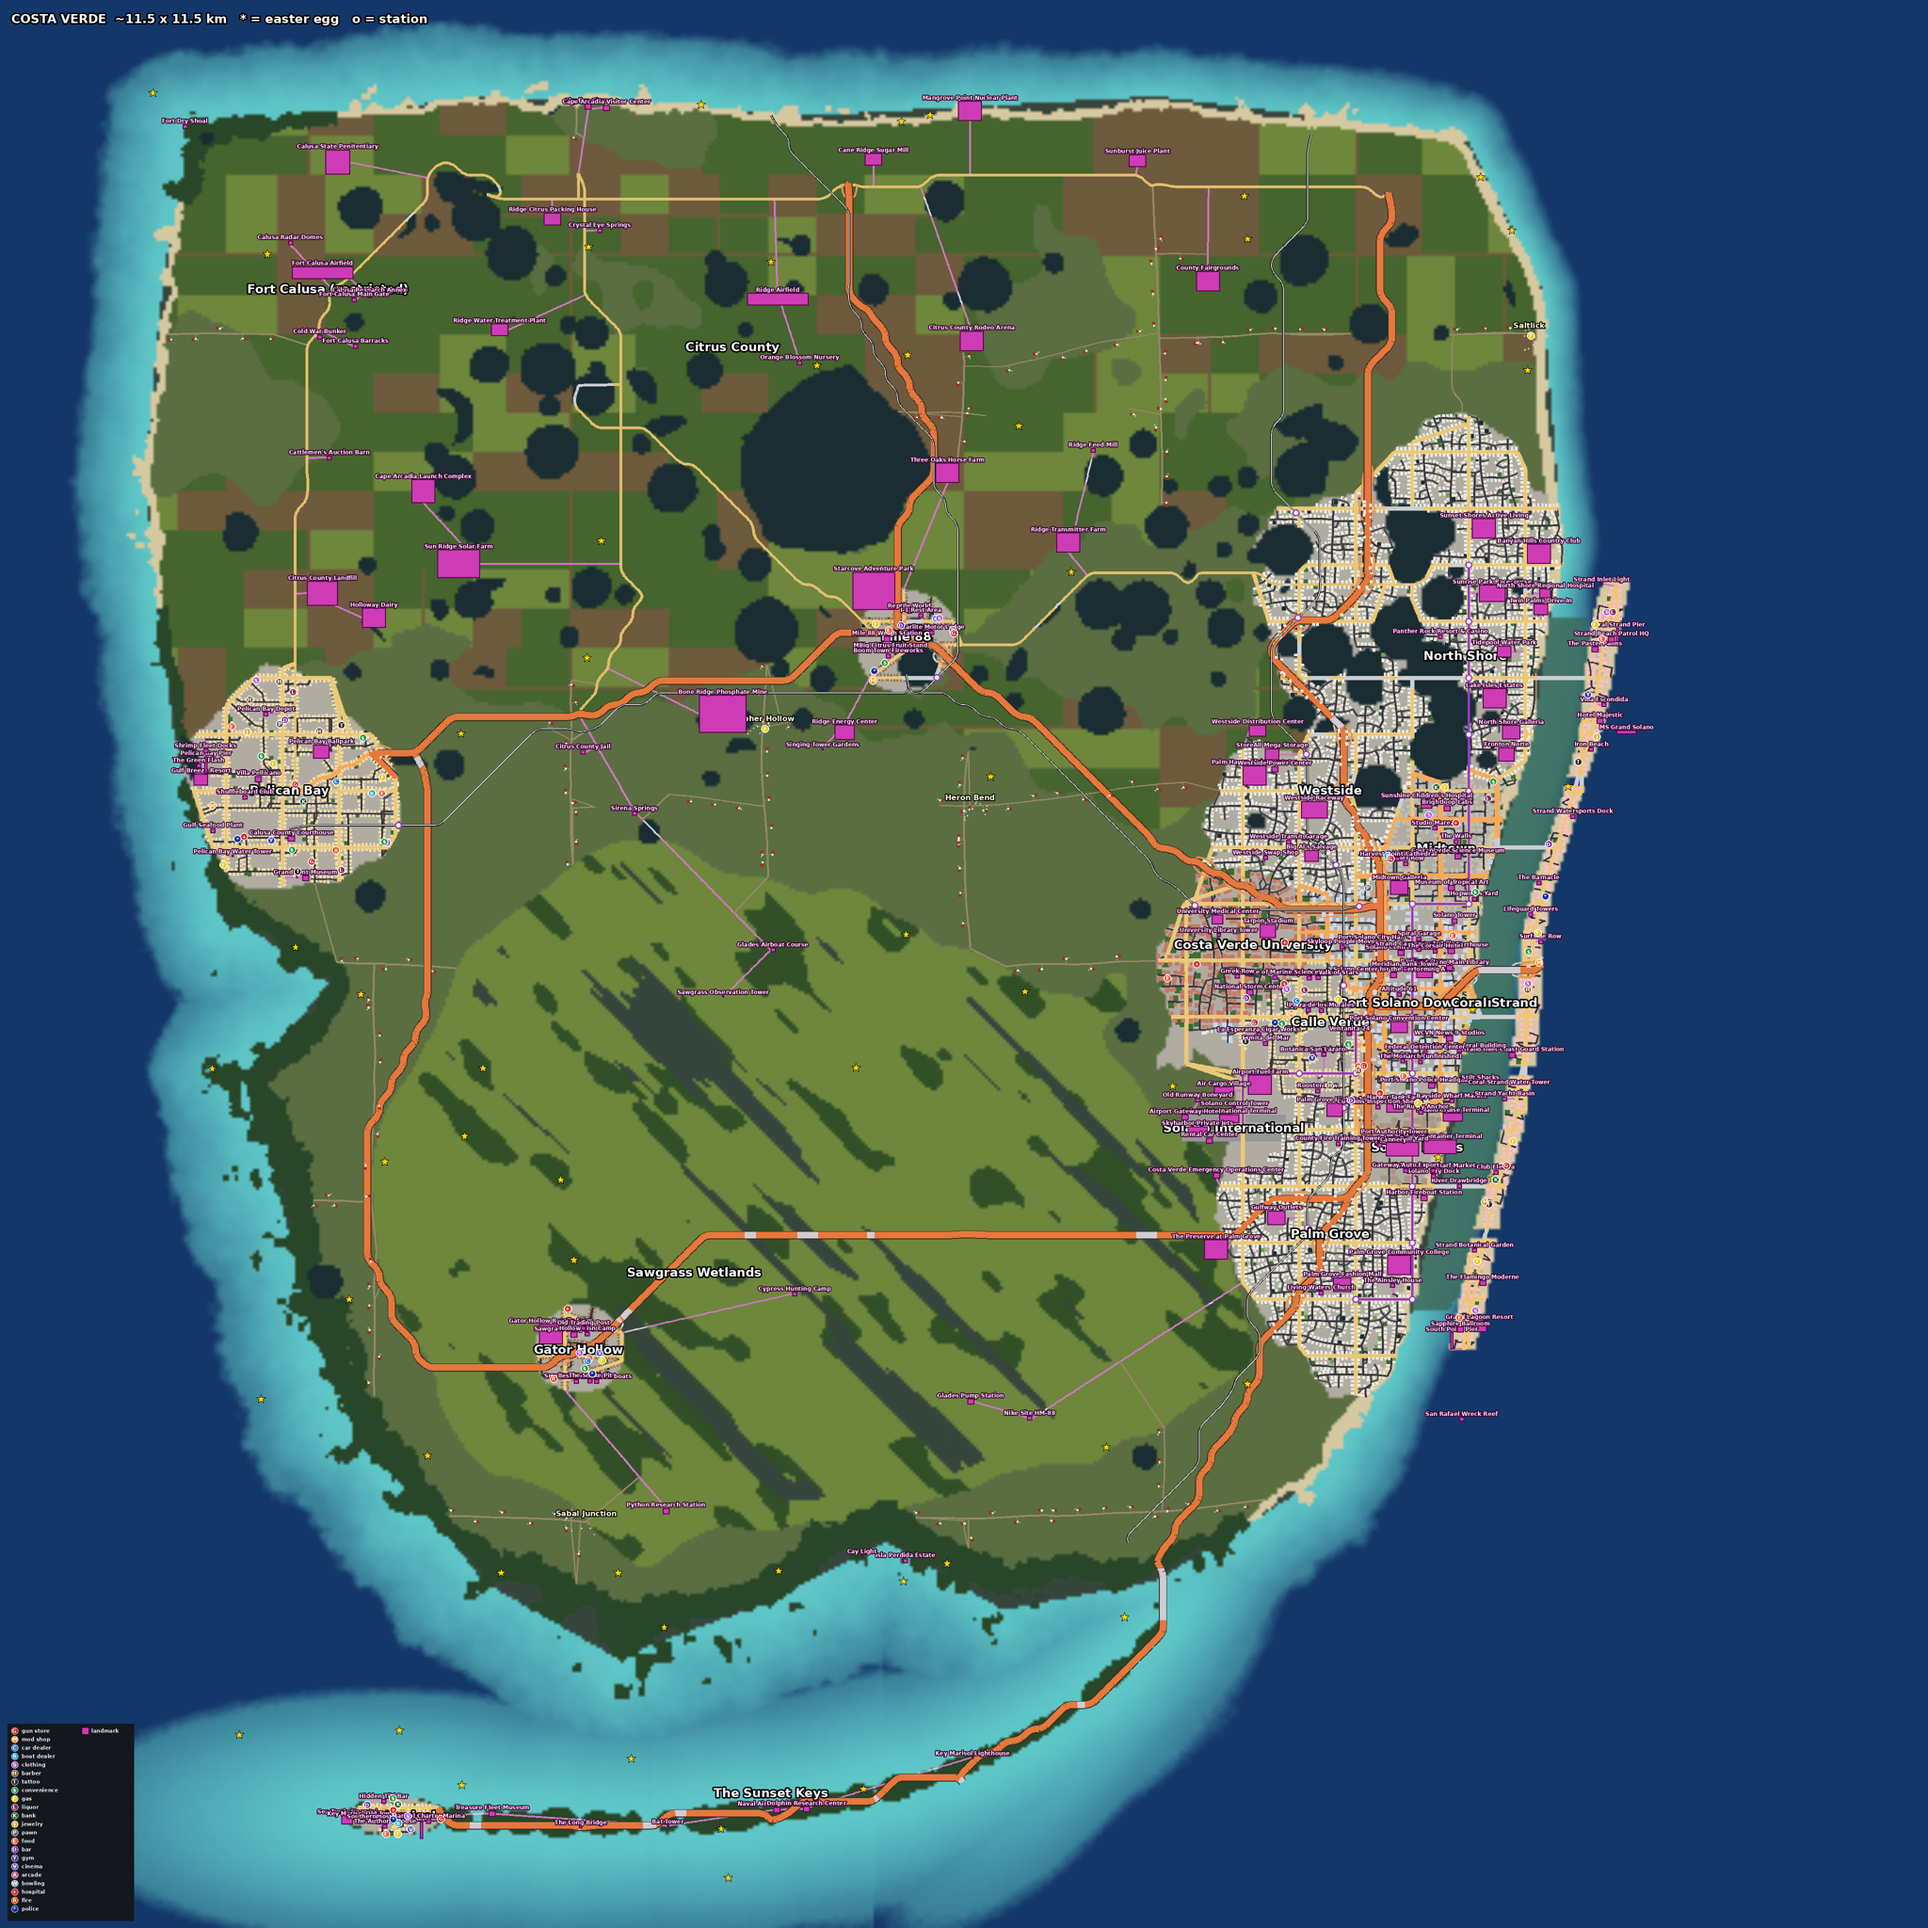
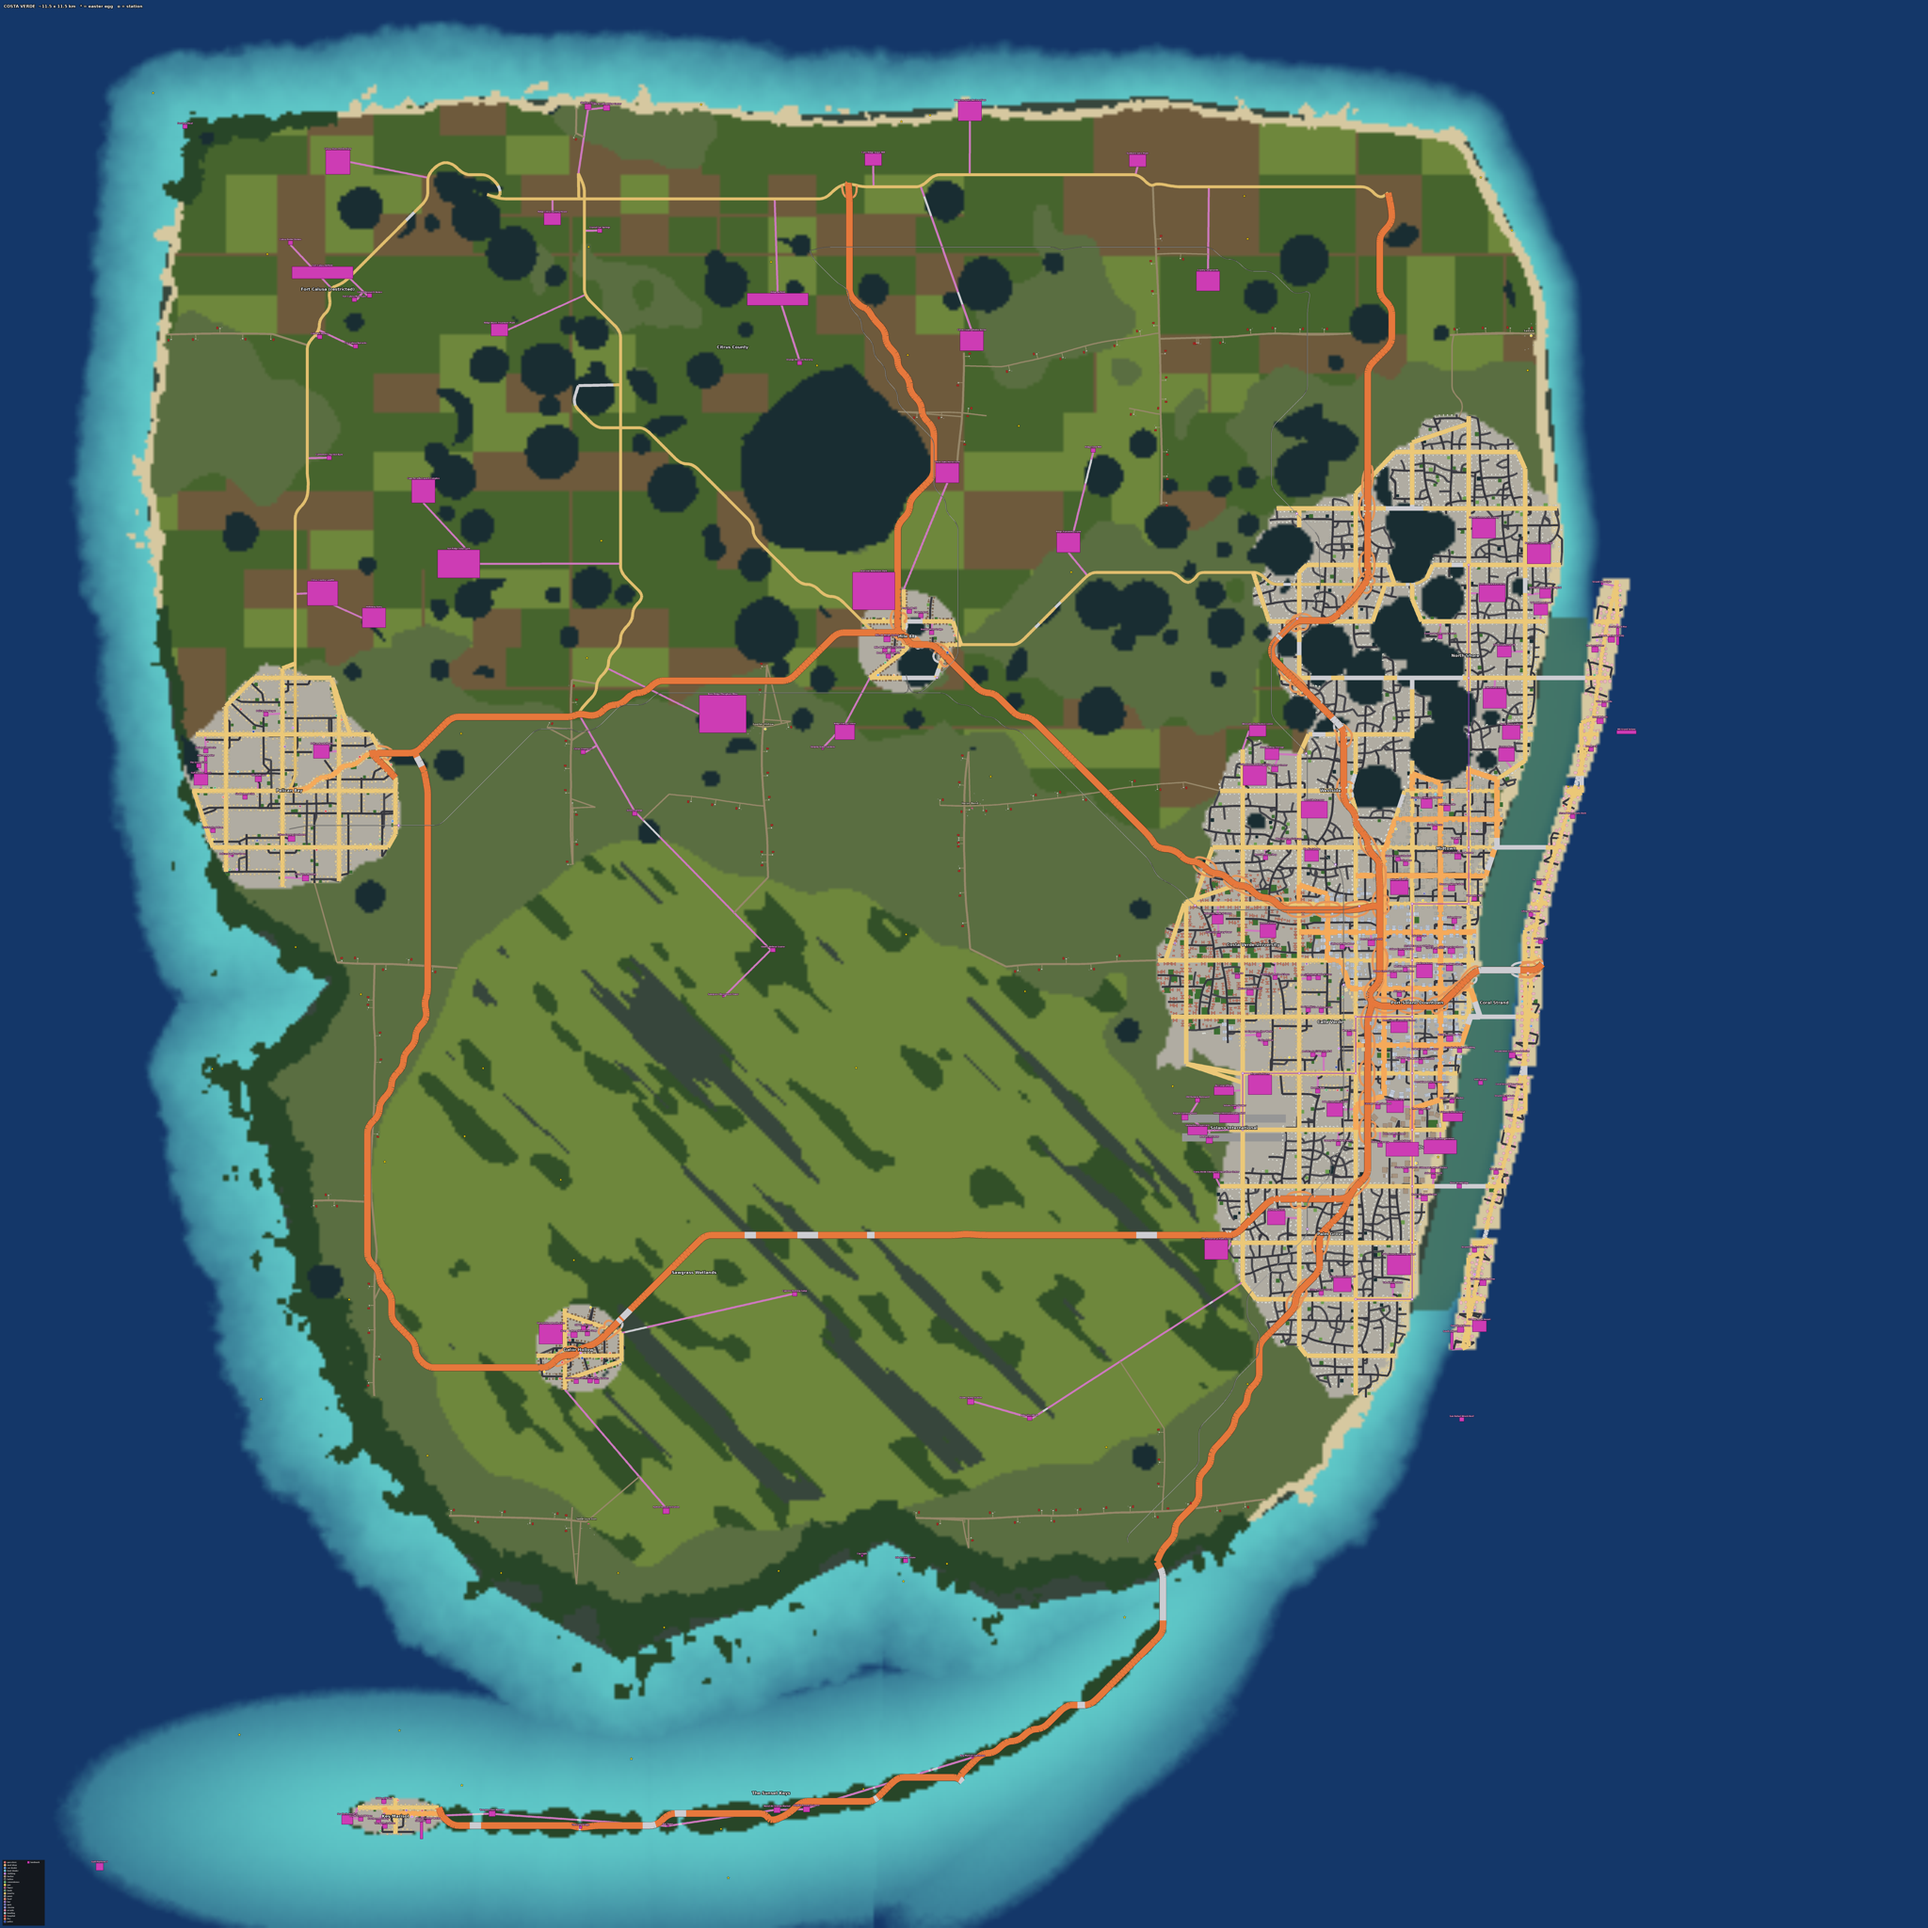
Costa Verde: real building shapes for every building; rail network joined
- Shapes.luau: multi-part footprints (polygon, height, roof) per building type; homes from a
  per-neighbourhood palette of 9 Florida house types with per-house variation; tower, midrise,
  Art Deco, shopfront, warehouse, campus and use-specific forms; facing the street, inside the lot
- SegIndex.luau shared; city lots and farm buildings checked corner by corner against every road
- coastline railway joins the Citrus freight line in the north
- audit: every building has a shape inside its lot; part corners clear of roads (0.03% touching)

Claude-Session: https://claude.ai/code/session_01PWmpu53kThn7KFGp88wUgC

diff --git a/costa-verde/tools/audit_world.py b/costa-verde/tools/audit_world.py
@@ -154,6 +154,34 @@ B = W["buildings"]
 bad = sum(on_road(b) for b in B)
 say("\n## Buildings")
 check("buildings not on roads", bad / len(B) < 0.01, f"{bad} of {len(B)} buildings ({100 * bad / len(B):.2f}%) overlap a road")
+# every corner of every building part (world space) clear of every road
+def part_corners(b):
+    c, sn = math.cos(math.radians(b["rot"])), math.sin(math.radians(b["rot"]))
+    for p in b.get("parts", []):
+        pts = p["pts"]
+        for i in range(0, len(pts), 2):
+            yield b["x"] + c * pts[i] - sn * pts[i + 1], b["z"] + sn * pts[i] + c * pts[i + 1], abs(pts[i]) <= b["w"] / 2 + 0.01 and abs(pts[i + 1]) <= b["d"] / 2 + 0.01
+
+
+no_parts = sum(1 for b in B if not b.get("parts"))
+outside_lot = 0
+on_road_parts = 0
+for b in B:
+    hit = False
+    for x, z, inside_lot in part_corners(b):
+        outside_lot += not inside_lot
+        if not hit:
+            for r in seg_grid[(int(x // 128), int(z // 128))]:
+                dx, dz = r["bx"] - r["ax"], r["bz"] - r["az"]
+                L2 = dx * dx + dz * dz or 1e-9
+                t = max(0, min(1, ((x - r["ax"]) * dx + (z - r["az"]) * dz) / L2))
+                if math.dist((x, z), (r["ax"] + dx * t, r["az"] + dz * t)) < r["width"] / 2 - 1:
+                    hit = True
+                    break
+    on_road_parts += hit
+check("every building has a real shape", no_parts == 0 and outside_lot == 0, f"{no_parts} without parts, {outside_lot} part corners outside their lot")
+check("building shapes clear of roads", on_road_parts / len(B) < 0.01, f"{on_road_parts} buildings ({100 * on_road_parts / len(B):.2f}%) with a part corner on a road")
+say(f"building types: {len(Counter(b.get('type') for b in B))} kinds; top: {dict(Counter(b.get('type') for b in B).most_common(12))}")
 bg = defaultdict(list)
 for b in B:
     bg[(int(b["x"] // 128), int(b["z"] // 128))].append(b)

diff --git a/costa-verde/tools/render_map.py b/costa-verde/tools/render_map.py
@@ -59,10 +59,15 @@ STYLE = {"tower": (205, 215, 230), "midrise": (190, 190, 180), "deco": (250, 190
          "barn": (170, 40, 35), "silo": (200, 200, 205), "store": (90, 140, 200), "gas": (230, 200, 40), "church": (255, 255, 255),
          "diner": (230, 90, 140), "trailer": (200, 200, 190)}
 for b in world["buildings"]:
-    x, z, w, dd = b["x"] * k, b["z"] * k, b["w"] * k / 2, b["d"] * k / 2
+    x, z = b["x"], b["z"]
     c, sn = math.cos(math.radians(b["rot"])), math.sin(math.radians(b["rot"]))
-    corners = [(x + c * px - sn * pz, z + sn * px + c * pz) for px, pz in ((-w, -dd), (w, -dd), (w, dd), (-w, dd))]
-    d.polygon(corners, fill=STYLE.get(b["style"], (200, 200, 200)))
+    base = STYLE.get(b["style"], (200, 200, 200))
+    for p in sorted(b.get("parts", []), key=lambda p: p["base"] + p["h"]):  # taller parts drawn on top, darker
+        pts = p["pts"]
+        poly = [((x + c * pts[i] - sn * pts[i + 1]) * k, (z + sn * pts[i] + c * pts[i + 1]) * k) for i in range(0, len(pts), 2)]
+        shade = 1 - min(0.35, (p["base"] + p["h"]) / 1500)
+        fill = tuple(int(v * shade) for v in base) if p["roof"] not in ("canopy",) else (210, 210, 215)
+        d.polygon(poly, fill=fill, outline=tuple(int(v * 0.6) for v in base))
 
 for t in world["tracks"]:
     pts = [t["ax"] * k, t["az"] * k, t["bx"] * k, t["bz"] * k]

diff --git a/costa-verde/tools/data/audit.md b/costa-verde/tools/data/audit.md
@@ -13,15 +13,18 @@ interchange ramps: 2208 segments
 
 ## Land use
 - [PASS] built-up land reached by roads: 98.1% of built-up land is within 150 studs of a road
-- [PASS] built-up land has buildings: 96.5% of built-up land has a building within 130 studs
+- [PASS] built-up land has buildings: 96.3% of built-up land has a building within 130 studs
 
 ## Water
 - [PASS] no roads driving through water: 0.00 km of road over water without a bridge (exact terrain); by kind (studs) {}
 
 ## Buildings
-- [PASS] buildings not on roads: 47 of 7383 buildings (0.64%) overlap a road
-- [PASS] buildings not overlapping: 2 overlapping pairs
-buildings by district: {'northshore': 1708, 'palmgrove': 1310, 'gulftown': 1160, 'westside': 750, 'calle': 409, 'rural': 376, 'beach': 337, 'university': 316, 'downtown': 295, 'midtown': 251, 'swamptown': 181, 'truckstop': 150, 'keytown': 68, 'docks': 38, 'hamlet': 34}
+- [PASS] buildings not on roads: 2 of 7054 buildings (0.03%) overlap a road
+- [PASS] every building has a real shape: 0 without parts, 0 part corners outside their lot
+- [PASS] building shapes clear of roads: 2 buildings (0.03%) with a part corner on a road
+building types: 26 kinds; top: {'shopfronts': 1581, 'ranch': 806, 'l_ranch': 673, 'colonial': 615, 'courtyard': 586, 'duplex': 409, 'townhouses': 309, 'art deco': 264, 'Fast food': 253, 'tower': 221, 'campus hall': 214, 'split_level': 212}
+- [PASS] buildings not overlapping: 3 overlapping pairs
+buildings by district: {'northshore': 1647, 'palmgrove': 1299, 'gulftown': 1128, 'westside': 718, 'calle': 388, 'rural': 344, 'beach': 302, 'university': 300, 'downtown': 254, 'midtown': 235, 'swamptown': 168, 'truckstop': 145, 'keytown': 67, 'docks': 30, 'hamlet': 29}
 
 ## Street patterns vs real data (2.4 km windows at district centres)
   downtown   (tower    ) density_ 16.18/12.48  block_me 160.30/260.85  straight 0.98/0.98  dead_end 0.05/0.16  t_frac 0.55/0.44  cross_fr 0.40/0.40  orientat 0.96/0.83
@@ -37,7 +40,7 @@ buildings by district: {'northshore': 1708, 'palmgrove': 1310, 'gulftown': 1160,
 ## Building uses
 - [PASS] building uses match the real mix: top uses within 2x of real Florida shares
 - [PASS] every building has a use: 0 without a use
-map markers: {'liquor': 5, 'food': 10, 'gun_store': 8, 'clothing': 10, 'hospital': 8, 'gas': 15, 'barber': 6, 'bar': 6, 'pawn': 3, 'tattoo': 5, 'car_dealer': 4, 'fire': 3, 'convenience': 12, 'bank': 4, 'boat_dealer': 3, 'mod_shop': 5, 'jewelry': 2, 'cinema': 2, 'police': 6, 'gym': 3}
+map markers: {'clothing': 10, 'gun_store': 8, 'bar': 6, 'hospital': 6, 'jewelry': 2, 'food': 10, 'tattoo': 5, 'gas': 15, 'barber': 6, 'convenience': 12, 'fire': 3, 'car_dealer': 4, 'mod_shop': 5, 'police': 6, 'boat_dealer': 3, 'bank': 4, 'pawn': 3, 'liquor': 5, 'gym': 3}
 
 ## Landmarks
 - [PASS] all 200 landmarks placed: 200 of 200 placed
@@ -49,6 +52,6 @@ landmark sites: {'bridge': 2, 'open': 38, 'shore': 27, 'urban': 126, 'offshore':
 
 ## Transit
 - [PASS] stations reachable from a road: 0 of 33 stations have no road within ~150 studs
-lines: {'Coastline Railway': 841, 'Gulf Line': 654, 'Citrus Freight': 364, 'Metro Green': 450, 'Metro Orange': 150}
+lines: {'Coastline Railway': 1028, 'Gulf Line': 654, 'Citrus Freight': 285, 'Metro Green': 450, 'Metro Orange': 150}
 
 all checks passed

diff --git a/costa-verde/ROADMAP.md b/costa-verde/ROADMAP.md
@@ -36,6 +36,15 @@ statistics. No real place is copied.
 - Still to do: landmark-specific lot shapes (runways, car parks, stadium bowls), marker density in small
   towns, landmark labels decluttered at map scale.
 
+## Phase B3: Roads finished, real building shapes (done, audited)
+- Every freeway end joins another highway or becomes a town boulevard; one continuous north-coast road;
+  rail lines joined; no loose major-road ends; freeways grade-separated (checked per road).
+- Every building has a real multi-part shape: 9 house types drawn from a per-neighbourhood palette
+  (ranch, L-ranch, colonial, courtyard, bungalow, split-level, duplex, townhouses, shotgun), tower,
+  midrise, Art Deco, shopfronts, warehouse and campus forms, and use-specific forms (gas station,
+  church, motel, self-storage, car wash, fast food, supercenter). Lots and farm buildings are checked
+  corner by corner against every road.
+
 ## Phase C: Roblox world builder (needs you in Studio)
 - Server script that runs the generator: terrain voxels in chunks (WriteVoxels), water at each lake's level,
   roads as parts or meshes, buildings as placeholders, streaming setup.

diff --git a/costa-verde/README.md b/costa-verde/README.md
@@ -17,6 +17,7 @@ The whole world is generated from code, so the same seed always builds the same 
 | `tools/interchange_stats.py` | Measures the real mix of freeway interchange types from Census ramp data |
 | `tools/landmarks.py` | The 200 unique landmarks (checked: exactly 200, all unique) → `LANDMARKS.md`, `tools/data/landmarks.json` |
 | `src/shared/Gen/Landmarks.luau`, `Uses.luau` | Place the 200 landmarks (footprints, siting rules, access roads); give every building a real use and pick the playable markers |
+| `src/shared/Gen/Shapes.luau` | Real building shapes: multi-part footprints by house type (neighbourhood palettes) and commercial/civic form, facing the street, inside the lot |
 | `tools/building_stats.py` | Real counts of every building type (Census business data) scaled to the map → `BUILDINGS.md` |
 | `tools/fetch_refs.py` | Downloads 50 USGS reference images (public domain) used to study real geography |
 
